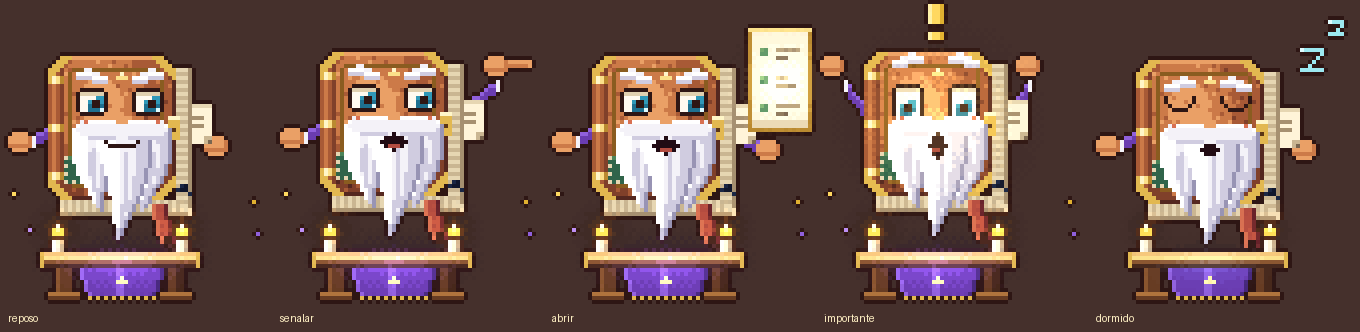
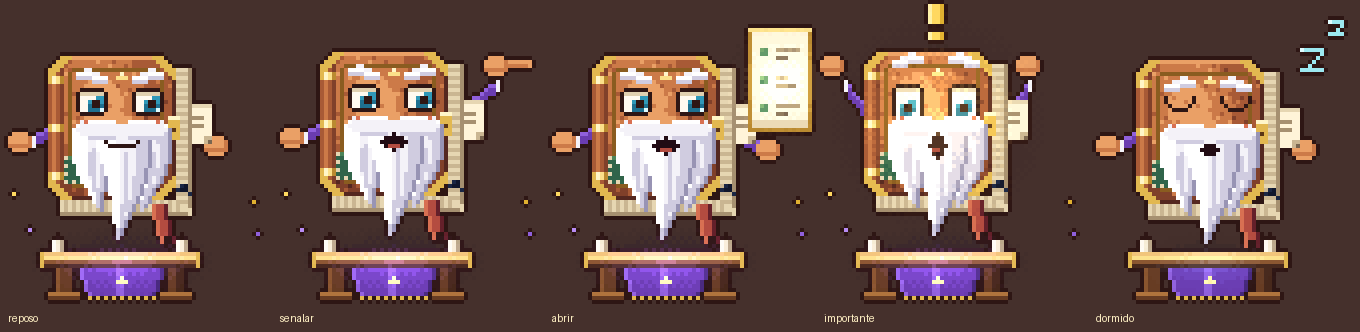
Tutorial: Inicio mágico (fondo químico animado, velas con llama, aura del Grimorio y nube de diálogo con vida)
- magia.js: canvas pixelado con círculo de transmutación (símbolos de elementos, benceno con grupo amino, órbitas con electrones), burbujas, moléculas, hojas y brotes; aura del Grimorio con runas en órbita y chispas de tinta.
- Velas del altar: llama de 4 cuadros (build_llama.py) con luz que pulsa; se quitó del arte el brillo fijo.
- Nube de diálogo: borde que respira, pop al empezar cada frase, chispas en las esquinas y letras con destello.
- SPEC, ESTADO, skill nexo-tutorial y docs/chats/tutorial.md al día; bundle e índice regenerados.

diff --git a/docs/hoja-de-ruta.html b/docs/hoja-de-ruta.html
@@ -33,8 +33,8 @@ ul{margin:0;padding-left:18px;font-size:14px}li{margin-bottom:4px}.vacio{color:v
 <h1>Tablero de Nexo</h1>
 <p class="sub">Actualizado el 2026-10-18 desde docs/chats/. Un chat = un tema = un modelo. Toca una tarjeta para ver el detalle.</p>
 <div class="resumen">
-  <div class="grande"><b>47%</b><span>de la app avanzada · 60 cosas hechas, 69 por hacer, 35 ideas guardadas</span></div>
-  <div class="barra" role="img" aria-label="47% avanzado"><i style="width:47%"></i></div>
+  <div class="grande"><b>48%</b><span>de la app avanzada · 61 cosas hechas, 67 por hacer, 35 ideas guardadas</span></div>
+  <div class="barra" role="img" aria-label="48% avanzado"><i style="width:48%"></i></div>
   <p>Lo urgente en marcha: <b>Aprender (Sótano de los Cristales)</b> (80%) · <b>Beta para compañeros</b> (38%) · <b>Clases (contenido y aula)</b> (57%) · <b>Estudio Orgánica II (PEP 1)</b> (40%) · <b>Organización — continuidad del organizador semanal</b> (67%).</p>
 </div>
 <div class="tablero">
@@ -271,12 +271,12 @@ Parte desde &quot;Falta&quot; y pregúntame qué sigue.">Copiar prompt de contin
   <summary>
     <span class="tag prio">Pronto</span>
     <h3>Tutorial (Grimorio guía)</h3>
-    <div class="barra" role="img" aria-label="33% avanzado"><i style="width:33%"></i></div>
-    <p class="meta"><b>33%</b> · 4 hechas, 8 faltan<br>conectado a la app; Niquito pidió rehacer su aspecto y animación (crítica del 15 oct)</p>
+    <div class="barra" role="img" aria-label="45% avanzado"><i style="width:45%"></i></div>
+    <p class="meta"><b>45%</b> · 5 hechas, 6 faltan<br>conectado a la app; Inicio mágico hecho (18 oct: fondo, velas, aura y nube); faltan voz, texto, huevos, mascota y recorrido</p>
   </summary>
   <div class="cols">
-    <section><h4>Hecho (4)</h4><ul><li>Diseño cerrado (SPEC, GUION de 29 pasos, FRASES) y arte pixel: Grimorio (15 poses × 3 bocas), huevos con nacimiento, marcos.</li><li>Guion completo programado y conectado: cuenta nueva lo ve sola, guarda mascota y nombre reales, premio de 150 ⚛ una vez, Ajustes › Tutoriales, filtro de nombres.</li><li>Avisos del Grimorio (primera vez por sección y novedades con versión) y revisión en móvil (390).</li><li>Objetos del refugio resaltados, voz por letra con botón de silencio.</li></ul></section>
-    <section><h4>Falta (8)</h4><ul><li>Leer `docs/tutorial/FEEDBACK-15OCT.md` (crítica de Niquito, por sección) y conversar con él el orden antes de programar.</li><li>Animación fluida del Grimorio, el libro, el altar con velas y la nube de diálogo (hoy parecen PNG).</li><li>Fondo con runas y magia que se mueve (el azul liso no le gusta); huevos con textura y movimiento.</li><li>Mascota que habla con la personalidad de su especie y hace un &quot;dab&quot; al nacer (confirmar).</li><li>Texto con personalidad (hoy &quot;NPC&quot;) y cambiar la voz del mago; revisar el salto de la pantalla hacia arriba.</li><li>Hacer el tutorial **modular por secciones**, porque Aprender y otras pantallas van a cambiar.</li><li>Premio con nube (necesita permiso explícito, hoy no se toca Supabase).</li><li>Revisar que 150 ⚛ siga bien si cambian los precios de la tienda.</li></ul></section>
+    <section><h4>Hecho (5)</h4><ul><li>Diseño cerrado (SPEC, GUION de 29 pasos, FRASES) y arte pixel: Grimorio (15 poses × 3 bocas), huevos con nacimiento, marcos.</li><li>Guion completo programado y conectado: cuenta nueva lo ve sola, guarda mascota y nombre reales, premio de 150 ⚛ una vez, Ajustes › Tutoriales, filtro de nombres.</li><li>Avisos del Grimorio (primera vez por sección y novedades con versión) y revisión en móvil (390).</li><li>Objetos del refugio resaltados, voz por letra con botón de silencio.</li><li>**Inicio mágico (18 oct)**: fondo mágico con tema de química (`magia.js`), velas con llama animada, aura del Grimorio (runas en órbita, chispas) y nube de diálogo con vida. Aprobado por Niquito.</li></ul></section>
+    <section><h4>Falta (6)</h4><ul><li>**Voz del mago**: no le gusta la actual (voz por letra estilo videojuego); probar otras o solo un blip suave, y dejarlo elegir.</li><li>**Texto con personalidad** (hoy suena &quot;NPC&quot;) y arreglar el salto de pantalla hacia arriba al apretar Siguiente.</li><li>**Huevos** con textura y movimiento; la **mascota** habla con la personalidad de su especie y hace el &quot;dab&quot; al nacer (confirmar).</li><li>**Recorrido por la app real**, modular por secciones (ver SPEC › REDISEÑO), con animaciones y explicando lo que hay detrás.</li><li>Opcional: separar el libro del altar y animar barba/páginas por piezas (hay que avisar al chat de Cuentas: `entrada.js` usa el mismo sprite).</li><li>Premio con nube (necesita permiso explícito) y revisar 150 ⚛ si cambian los precios.</li></ul></section>
     <section><h4>Ideas (2)</h4><ul><li>Mini tutoriales por sección que se activan la primera vez que entras.</li><li>El Grimorio recuerda tus preferencias y sugiere la primera sesión.</li></ul></section>
   </div>
   <div class="prompts">
@@ -285,8 +285,8 @@ Parte desde &quot;Falta&quot; y pregúntame qué sigue.">Copiar prompt de contin
 Contexto: el tutorial funciona, pero quiero rehacer su aspecto y animación; mi crítica está en FEEDBACK-15OCT.md, ordenada por sección.
 Tarea: dime en una línea qué entendiste y hazme máximo 3 preguntas de selección múltiple para decidir por qué sección empezamos y cómo se debe ver la animación. No escribas código ni dibujes hasta que yo diga &quot;hazlo&quot;.
 Al terminar, usa nexo-cierre y actualiza docs/chats/tutorial.md.">Copiar prompt de inicio</button>
-    <button data-copy="Chat: Tutorial. Lee CLAUDE.md, la skill nexo-tutorial, docs/tutorial/FEEDBACK-15OCT.md y docs/chats/tutorial.md.
-Parte desde &quot;Falta&quot; y pregúntame qué sección sigue.">Copiar prompt de continuación</button>
+    <button data-copy="Chat: Tutorial. Lee CLAUDE.md, la skill nexo-tutorial, docs/tutorial/SPEC.md (sección &quot;Inicio mágico&quot;) y docs/chats/tutorial.md.
+El Inicio mágico ya está (fondo, velas, aura y nube). Parte desde &quot;Falta&quot; y pregúntame con selección múltiple cuál sigue: voz y texto, huevos y mascota, o el recorrido por la app real.">Copiar prompt de continuación</button>
     <span class="spec">docs/tutorial/SPEC.md</span>
   </div>
 </details>

diff --git a/dist/app.js b/dist/app.js
@@ -648,7 +648,7 @@
           finish: () => { state.tutorial.status = 'done'; saveState({ backup: false }); withAvisos(a => { state.tutorial.news = Math.max(state.tutorial.news || 0, a.VERSION); saveState({ backup: false }); }); }
         };
         const go = () => { if (parseRoute()[0] === 'tutorial') window.NexoTutorial.render(app, { mode, api: mode === 'test' ? null : api, sound: () => !!state.settings?.sound, exit: () => routeTo('home') }); };
-        if (window.NexoTutorial) go(); else { const sc = document.createElement('script'); sc.src = 'tutorial/tutorial.js?v=8'; sc.onload = go; document.head.append(sc); }
+        if (window.NexoTutorial) go(); else { const sc = document.createElement('script'); sc.src = 'tutorial/tutorial.js?v=9'; sc.onload = go; document.head.append(sc); }
       }
     };
     try { (renderers[route[0]] || renderHome)(); app.dataset.renderedRoute = route.join('/'); }

diff --git a/dist/index.html b/dist/index.html
@@ -47,6 +47,6 @@
     <script defer src="./semester-2026.js?v=dff3c554"></script>
     <script defer src="./config.js?v=9f315fc6"></script>
     <script defer src="./startup-bundle.js?v=44452b99"></script>
-    <script defer src="./app.js?v=e0b429af"></script>
+    <script defer src="./app.js?v=7718e06a"></script>
   </body>
 </html>

diff --git a/docs/tutorial/SPEC.md b/docs/tutorial/SPEC.md
@@ -206,6 +206,22 @@ Niquito: «el tutorial ya está súper bueno»: se da por **aprobado el tono, la
 
 **Criterios de aceptación:** cuenta nueva ve el tutorial sola; elegir mascota y nombre se guarda; el premio se da una sola vez (o la decisión de nube queda escrita); saltarlo no da monedas; Ajustes → Tutoriales lo repite sin premio; `npm test` sin fallas nuevas.
 
+## Inicio mágico (18 oct 2026, crítica del 15 oct; aprobado por Niquito: "hazlo", capas y partículas)
+
+**Qué:** el tutorial "se ve como PNG que se mueve" y el fondo azul liso no gusta. Se rehace en este orden (una etapa por vez, cada una se prueba y se aprueba):
+1. **Fondo mágico (hecho, esperando aprobación):** `dist/tutorial/magia.js` (carga perezosa; lo monta `tutorial.js`). Un canvas de baja resolución (1 px = 3 de pantalla, escalado pixelado) detrás de todo el tutorial:
+   círculo de transmutación con runas inventadas (dos anillos que giran en sentidos contrarios), luz cálida que respira, estrellas, luciérnagas, polvo, runas que suben, hojas y enredaderas en las esquinas.
+   Fondo base ciruela/verde oscuro (sin azul). `NexoMagia.mount(el).pulse()` hace un destello: se usa en el estallido del nacimiento.
+   Respeta "reducir movimiento" (un solo cuadro quieto), se pausa con la pestaña oculta y se apaga solo al salir.
+2. **Altar con velas (hecho, esperando aprobación):** la vela del arte ya solo trae la mecha; las llamas son `dist/assets/tutorial/llama.png` (4 cuadros de 3×8, `tools/tutorial-pixel/build_llama.py`) y parpadean por cuadros con ritmo distinto en cada vela. Encima, una luz cálida pulsa (mezcla `screen`). Se arma en `tutorial.js` (dos `<i class="tut-llama">` dentro del Grimorio) y `tutorial.css`. Se quitó del arte el brillo naranja fijo de las velas.
+3. **Aura del Grimorio (hecha, esperando aprobación):** `NexoMagia.aura(grimEl)` en `magia.js`: un canvas alineado al píxel con el sprite (68×76 + margen) con 6 runas en órbita alrededor del libro (se apagan al pasar por detrás, con estela), chispas de tinta y hojitas que salen por arriba, y luz que respira. Se enciende al hablar (`talk`) y da un chorro al cambiar de pose (`burst`); en `tutorial.js`, dentro de `say`/`finishType`/`drawGrim`. Sin «reducir movimiento» no se monta.
+   **No se separó el libro del altar en el arte** (decisión técnica): `dist/cuentas/entrada.js` reutiliza el mismo sprite `.tut-grim` y se habría roto. Si más adelante quieres piezas sueltas (barba que se mece, páginas que aletean), hay que rehacer las hojas en `build_grimorio.py` y avisar al chat de Cuentas.
+4. **Nube de diálogo con vida (hecha, esperando aprobación):** el borde respira con brillo dorado (`drop-shadow` que pulsa), cada frase entra con un «pop» elástico, cuatro chispas en cruz titilan en las esquinas, sube una chispita dorada al empezar cada palabra y cada letra nueva aparece con destello (`.nl`). Todo en `tutorial.css` / `say()` de `tutorial.js`; se apaga con «reducir movimiento». Como `entrada.js` reutiliza el CSS, su nube también brilla, pero sin chispas (no las crea).
+
+**Fuera de esta tanda (después, uno por uno):** voz/sonido del mago, texto con personalidad y el salto de pantalla hacia arriba, huevos con textura, la mascota hablando con su personalidad y el dab, y el recorrido por la app real (modular por secciones).
+
+**Criterios (etapa 1):** en 1440 y 390 el fondo se mueve sin tapar ni ensuciar el texto; no hay azul liso; no baja de ~50 fps; con reducir movimiento queda quieto; `npm test` sin fallas nuevas.
+
 ## Pendiente (ideas a futuro, no bloquean)
 - Aparición y avisos ya hechos; las novedades nuevas se agregan en `NEWS` de `dist/tutorial/avisos.js`.
 - Si Niquito cambia los precios de la tienda (`PRICES` en `dist/mascot/home-pet.js`), revisar que 150 ⚛ siga sintiéndose bien.

diff --git a/docs/chats/tutorial.md b/docs/chats/tutorial.md
@@ -1,6 +1,6 @@
 # Tutorial (Grimorio guía)
 - modelo: Sonnet 5.5 · medio
-- estado: conectado a la app; Niquito pidió rehacer su aspecto y animación (crítica del 15 oct)
+- estado: conectado a la app; Inicio mágico hecho (18 oct: fondo, velas, aura y nube); faltan voz, texto, huevos, mascota y recorrido
 - prioridad: 2
 - spec: docs/tutorial/SPEC.md
 
@@ -9,16 +9,15 @@
 - Guion completo programado y conectado: cuenta nueva lo ve sola, guarda mascota y nombre reales, premio de 150 ⚛ una vez, Ajustes › Tutoriales, filtro de nombres.
 - Avisos del Grimorio (primera vez por sección y novedades con versión) y revisión en móvil (390).
 - Objetos del refugio resaltados, voz por letra con botón de silencio.
+- **Inicio mágico (18 oct)**: fondo mágico con tema de química (`magia.js`), velas con llama animada, aura del Grimorio (runas en órbita, chispas) y nube de diálogo con vida. Aprobado por Niquito.
 
 ## Falta
-- Leer `docs/tutorial/FEEDBACK-15OCT.md` (crítica de Niquito, por sección) y conversar con él el orden antes de programar.
-- Animación fluida del Grimorio, el libro, el altar con velas y la nube de diálogo (hoy parecen PNG).
-- Fondo con runas y magia que se mueve (el azul liso no le gusta); huevos con textura y movimiento.
-- Mascota que habla con la personalidad de su especie y hace un "dab" al nacer (confirmar).
-- Texto con personalidad (hoy "NPC") y cambiar la voz del mago; revisar el salto de la pantalla hacia arriba.
-- Hacer el tutorial **modular por secciones**, porque Aprender y otras pantallas van a cambiar.
-- Premio con nube (necesita permiso explícito, hoy no se toca Supabase).
-- Revisar que 150 ⚛ siga bien si cambian los precios de la tienda.
+- **Voz del mago**: no le gusta la actual (voz por letra estilo videojuego); probar otras o solo un blip suave, y dejarlo elegir.
+- **Texto con personalidad** (hoy suena "NPC") y arreglar el salto de pantalla hacia arriba al apretar Siguiente.
+- **Huevos** con textura y movimiento; la **mascota** habla con la personalidad de su especie y hace el "dab" al nacer (confirmar).
+- **Recorrido por la app real**, modular por secciones (ver SPEC › REDISEÑO), con animaciones y explicando lo que hay detrás.
+- Opcional: separar el libro del altar y animar barba/páginas por piezas (hay que avisar al chat de Cuentas: `entrada.js` usa el mismo sprite).
+- Premio con nube (necesita permiso explícito) y revisar 150 ⚛ si cambian los precios.
 
 ## Ideas
 - Mini tutoriales por sección que se activan la primera vez que entras.
@@ -34,6 +33,6 @@ Al terminar, usa nexo-cierre y actualiza docs/chats/tutorial.md.
 
 ## Prompt de continuación
 ```
-Chat: Tutorial. Lee CLAUDE.md, la skill nexo-tutorial, docs/tutorial/FEEDBACK-15OCT.md y docs/chats/tutorial.md.
-Parte desde "Falta" y pregúntame qué sección sigue.
+Chat: Tutorial. Lee CLAUDE.md, la skill nexo-tutorial, docs/tutorial/SPEC.md (sección "Inicio mágico") y docs/chats/tutorial.md.
+El Inicio mágico ya está (fondo, velas, aura y nube). Parte desde "Falta" y pregúntame con selección múltiple cuál sigue: voz y texto, huevos y mascota, o el recorrido por la app real.
 ```

diff --git a/docs/ESTADO.md b/docs/ESTADO.md
@@ -91,3 +91,4 @@ Historial de lo hecho por tema. Lo lee Claude solo cuando necesita contexto de o
 - 17 oct 2026 · **Aprender: Sala de entrenamiento** (diseño + boceto animado aprobado): arena circular al fondo del pasillo con yunque de ejercicios (tanda de hoy mezclada), atril de guías y archivo de pruebas antiguas con reloj de arena (simulacro o práctica); al centro un cristal en bruto que crece con aciertos sin ayuda (hilos de luz). Script `tools/aprender-pasillo/build_sala.py`. SPEC: `docs/aprender-pasillo/SPEC.md`.
 - 17 oct 2026 · **Aprender: Sala de Laboratorio** (diseño + boceto animado aprobado): nave larga de piedra con bordes de cobre y verdín que se recorre por fases: pizarra de cálculos y vitrina de seguridad GHS (PRE), banco de montaje bajo campana de cobre con reflujo (DURANTE), bitácora del informe (DESPUÉS) y estante con un matraz por lab que se llena en 3 fases. El lab caminable de la Torre queda como lugar del mundo. Script `tools/aprender-pasillo/build_lab.py`. SPEC: `docs/aprender-pasillo/SPEC.md`.
 - 18 oct 2026 · **Aprender: las 4 puertas listas** (bocetos aprobados): Química Analítica, Fisicoquímica II y Fisiopatología tienen su entrada por la puerta y su Cámara, con su color (celeste, violeta, brasa) y 3 alcobas de la PEP 1 con murales animados propios. `build_camara.py` ahora sirve para cualquier ramo (`RAMOS`, `set_ramo`). SPEC: `docs/aprender-pasillo/SPEC.md`.
+- 18 oct 2026 · **Tutorial: Inicio mágico** (4 etapas, de la crítica del 15 oct): fondo con círculo de transmutación químico (símbolos de elementos, benceno con grupo amino, órbitas con electrones, burbujas, moléculas, brotes), velas del altar con llama animada y luz, aura del Grimorio (runas en órbita, chispas de tinta) y nube de diálogo con borde que respira, chispas y letras con destello. `dist/tutorial/magia.js`, `build_llama.py`. SPEC: `docs/tutorial/SPEC.md`.

diff --git a/.claude/skills/nexo-tutorial/SKILL.md b/.claude/skills/nexo-tutorial/SKILL.md
@@ -16,8 +16,12 @@ description: Tutorial guiado de Nexo (Grimorio que explica la app, elección y n
 - La mascota que nace se dibuja con `window.PixelMascotas.render` (mismo código que `home-pet.js`), no con las hojas de huevos.
 - Bips de 8 bits con WebAudio; respetan `state.settings.sound`.
 
+## Fondo mágico
+- `dist/tutorial/magia.js` (`NexoMagia.mount(el).pulse()`): canvas de baja resolución detrás del tutorial (círculo de runas con símbolos de elementos, benceno con grupo amino, órbitas con electrones, burbujas, moléculas, hojas y enredaderas). Lo carga `tutorial.js`; respeta «reducir movimiento».
+
 ## Arte (scripts reproducibles en `tools/tutorial-pixel/`, salida en `dist/assets/tutorial/`)
 - `build_grimorio.py` → `grimorio-v1.png` (5 poses, incl. dormido) y `grimorio-hablar.png` + `.json` (15 poses × 3 bocas, 68×76; el orden de filas está en el JSON y en `ROWS` de tutorial.js).
+- `build_llama.py` → `llama.png` (4 cuadros 3×8): llamas de las velas del altar, animadas por CSS (`.tut-llama`). Las posiciones salen del arte del Grimorio (68×76); si mueves las velas en `build_grimorio.py`, ajusta `.tut-llama.l/.r` en `tutorial.css`.
 - `build_marco.py` → `marco-dialogo.png` (9-slice 12), `marco-nombre.png` (9-slice 6), `flecha-siguiente.png`.
 - `build_huevos.py` → `huevo-{atomo,matraz,slime}.png` (9 cuadros de 56×64).
 - Cambios de arte: seguir `nexo-pixel-art`. Si cambia el orden de filas del Grimorio, actualizar `ROWS`.
